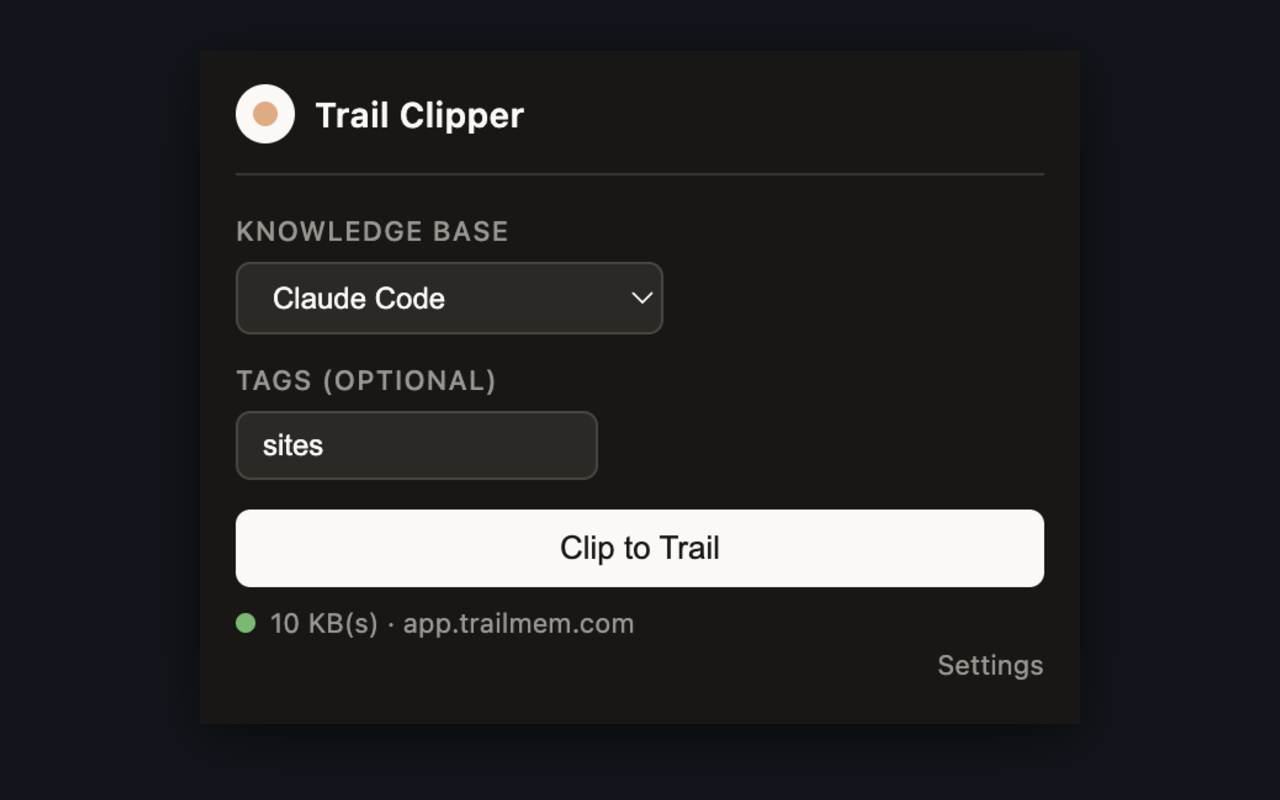
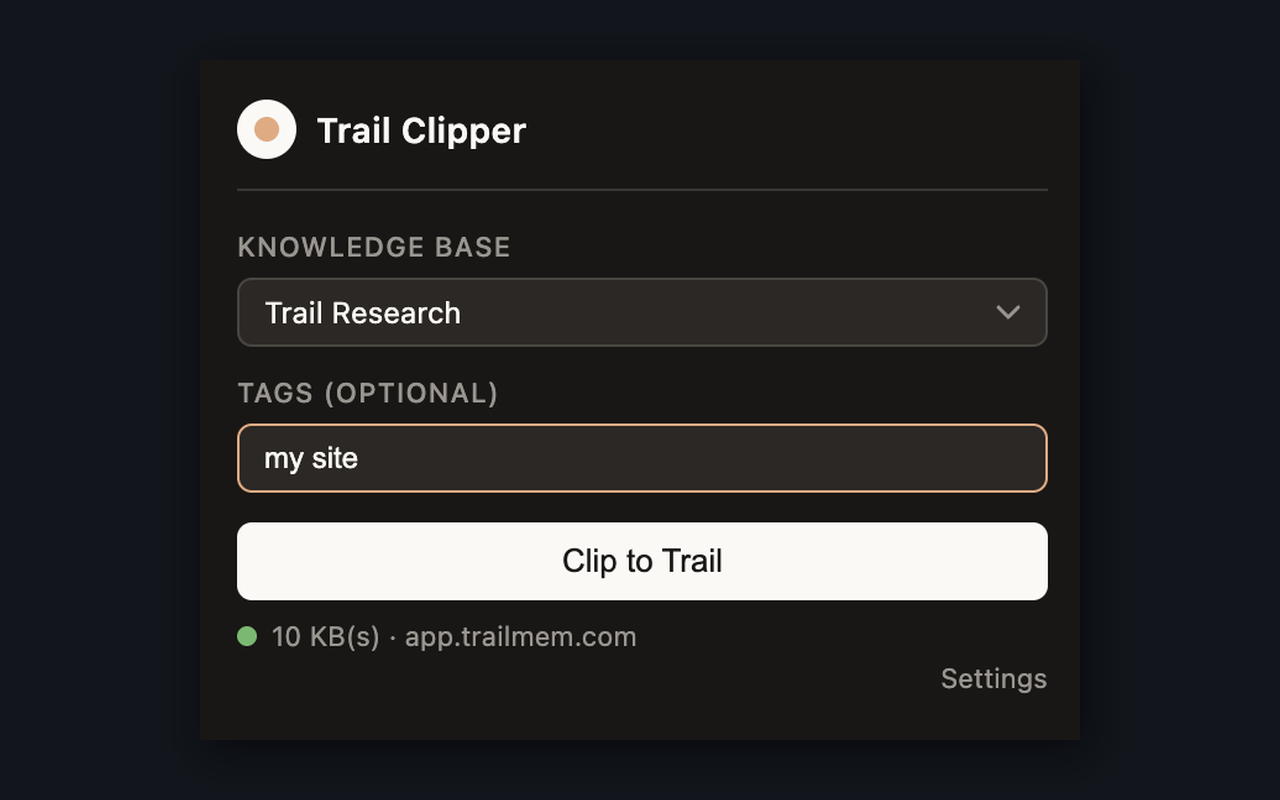
assets(F208.4): three store screenshots — the last thing blocking submission
Captured by Christian from a real connected install after F208.2 replaced the
native <select>, and converted to exactly 1280×800:

  01-popup.png       the product in one frame — knowledge base, tags, the
                     button, and the status line naming the destination BEFORE
                     the click, which is the claim the listing copy makes
  02-settings.png    Use cloud / Use local, the token field, Save & Connect —
                     "you choose the server" made visible rather than asserted
  03-in-context.png  the popup over a real page

The picker now spans the panel like the button, so the form no longer reads as
misaligned. That was worth the extra round: this is the frame most people will
judge the extension by, and a macOS system control in a dark panel was the first
thing visible in it.

TWO THINGS THE CONVERSION HAD TO CATCH, neither of them a resize:

The earlier context shot carried the browser's bookmark bar with his folder
names. A store listing is public even when the extension is unlisted, so that
would have published his bookmark structure. This capture has only the address
bar — checked by cropping and LOOKING at the top strip rather than assuming.

Padding the context shot with a sampled page colour produced white bands: the
sample point landed on the page's light lower section. Inspected the output,
found it, and used the same dark ground as the other two so the set is
[…]

Changed region(s): [[0.1562, 0.25, 0.8438, 0.8125], [0.1875, 0.0938, 0.4062, 0.2188], [0.7188, 0.8125, 0.8125, 0.875]]

diff --git a/docs/store/chrome-web-store-listing.md b/docs/store/chrome-web-store-listing.md
@@ -130,25 +130,25 @@ All three certification checkboxes can be ticked truthfully.
 
 ---
 
-## Screenshots — 1280×800, at least one required
+## Screenshots — 1280×800, ready
 
-**These need the extension running in Chrome.** Suggested set, in order:
+In `apps/web-clipper/store-screenshots/`, captured 2026-08-23 from a real
+connected install and converted to exactly 1280×800. Upload in this order:
 
-1. **The popup, connected** — knowledge-base menu open, status bar showing
-   `N KB(s) · app.trailmem.com`. This is the whole product in one frame.
-2. **The popup over a real article** — so the reader sees it is clipping what
-   they are reading.
-3. **Settings** — the two server buttons (Use cloud / Use local) and the token
-   field, which is the "you choose the server" claim made visible.
+| File | Shows |
+|---|---|
+| `01-popup.png` | The product in one frame — knowledge base picked, tags, `Clip to Trail`, and the status line naming the destination **before** the click |
+| `02-settings.png` | The "you choose the server" claim made visible — Use cloud / Use local, the token field, Save & Connect |
+| `03-in-context.png` | The popup over a real page, so it is obvious what is being clipped |
 
-Do not screenshot a page with anything private in it — the store listing is
-public even when the extension is unlisted.
+**A store listing is public even when the extension is unlisted.** The first
+attempt at the context shot carried the browser's bookmark bar — folder names
+included — and had to be redone. Check any replacement for the same thing.
 
 ---
 
 ## What is NOT ready
 
-- **Screenshots** — must be captured from a running install.
 - **Small promo tile (440×280)** — optional; the listing publishes without it.
 
 ## Submission is a browser step
